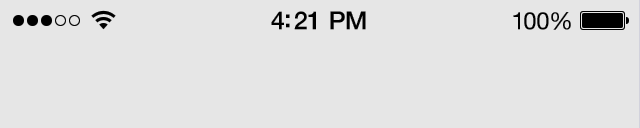
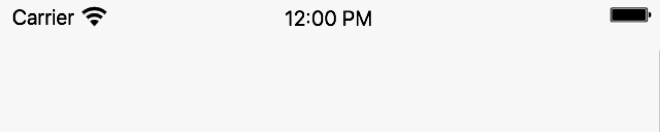
layout iphone corretto come nel simulator

Changed region(s): [[0.7812, 0.0312, 1.0, 0.25], [0.4062, 0.0625, 0.5938, 0.25], [0.0, 0.0312, 0.1875, 0.2188]]

diff --git a/app/styles/style.scss b/app/styles/style.scss
@@ -184,7 +184,7 @@ html, body {
 
 .control-list-view:hover, .control-grid-view:hover {
   box-shadow: 0 0 0 1px #ccc;
-  border-radius: 5px; 
+  border-radius: 5px;
 }
 
 .control-list-view-cell {
@@ -217,7 +217,6 @@ html, body {
 
 .ios .control-button {
   color: $ios-primary-color;
-  font-weight: bold;
 }
 
 .ios .control-button a {
@@ -336,10 +335,10 @@ html, body {
   justify-content: space-around;
   align-content: center;
   align-items: flex-end;
-  background-color: #dddddd;
+  background-color: rgb(247,247,247);
   width: 100%;
-  height: 37px;
-  border-top: solid 1px #b2b2b2;
+  height: 44px;
+  border-top: solid 1px rgb(247,247,247);
   bottom: 0;
 }
 
@@ -363,7 +362,7 @@ html, body {
 /*** Ui Controls -> iOS ***/
 /*** ScreenView -> iOS ***/
 .ios .device-screen-view {
-  font: 14px -apple-system-font, ".Helvetica NeueUI", "Helvetica Neue", sans-serif;
+  font: 12px -apple-system-font, ".Helvetica NeueUI", "Helvetica Neue", sans-serif;
 }
 
 .ios .device-screen-view .action-bar {
@@ -374,8 +373,8 @@ html, body {
   width: 100%;
   top: 0;
   left: 0;
-  height: 62px;
-  border-bottom: solid 1px #b2b2b2;
+  height: 44px;
+  border-bottom: solid 1px rgb(247,247,247);
   background-image: url("../images/ui_controls/ios/status_bar.png");
   background-size: 100% auto;
   background-repeat: no-repeat;
@@ -570,7 +569,7 @@ html, body {
 
 
 .android .control-label {
-  
+
 }
 
 .android .control-edit-text {

diff --git a/app/scripts/routes/application_route.js b/app/scripts/routes/application_route.js
@@ -74,9 +74,9 @@ App.ApplicationRoute = Ember.Route.extend({
         label: 'iPhone 6 Plus',
         platform: 'ios',
         //Aggancio top
-        viewTop: 81,
+        viewTop: 58,
         //Aggancio bottom
-        viewBottom: 736,
+        viewBottom: 729,
         //Dimensioni in points
         screenWidth: 414,
         screenHeight: 736,
@@ -98,7 +98,7 @@ App.ApplicationRoute = Ember.Route.extend({
 
           });
       });
-      
+
       this.store.createRecord('device', {
         name: 'Nexus6P',
         label: 'Nexus 6P',

diff --git a/app/scripts/models/button.js b/app/scripts/models/button.js
@@ -1,5 +1,5 @@
 App.Button = App.UiControl.extend({
-  title:            DS.attr('string', {defaultValue: 'BUTTON'}),
+  title:            DS.attr('string', {defaultValue: 'Button'}),
   clickListener:    DS.belongsTo('clickListener'),
 
   width:            DS.attr('number', {defaultValue: 88}),
@@ -38,7 +38,7 @@ App.Button = App.UiControl.extend({
     if (clickListener != null) {
         button.appendChild(clickListener.toXml(xmlDoc));
     }
-    
+
     return button;
   }
 });
